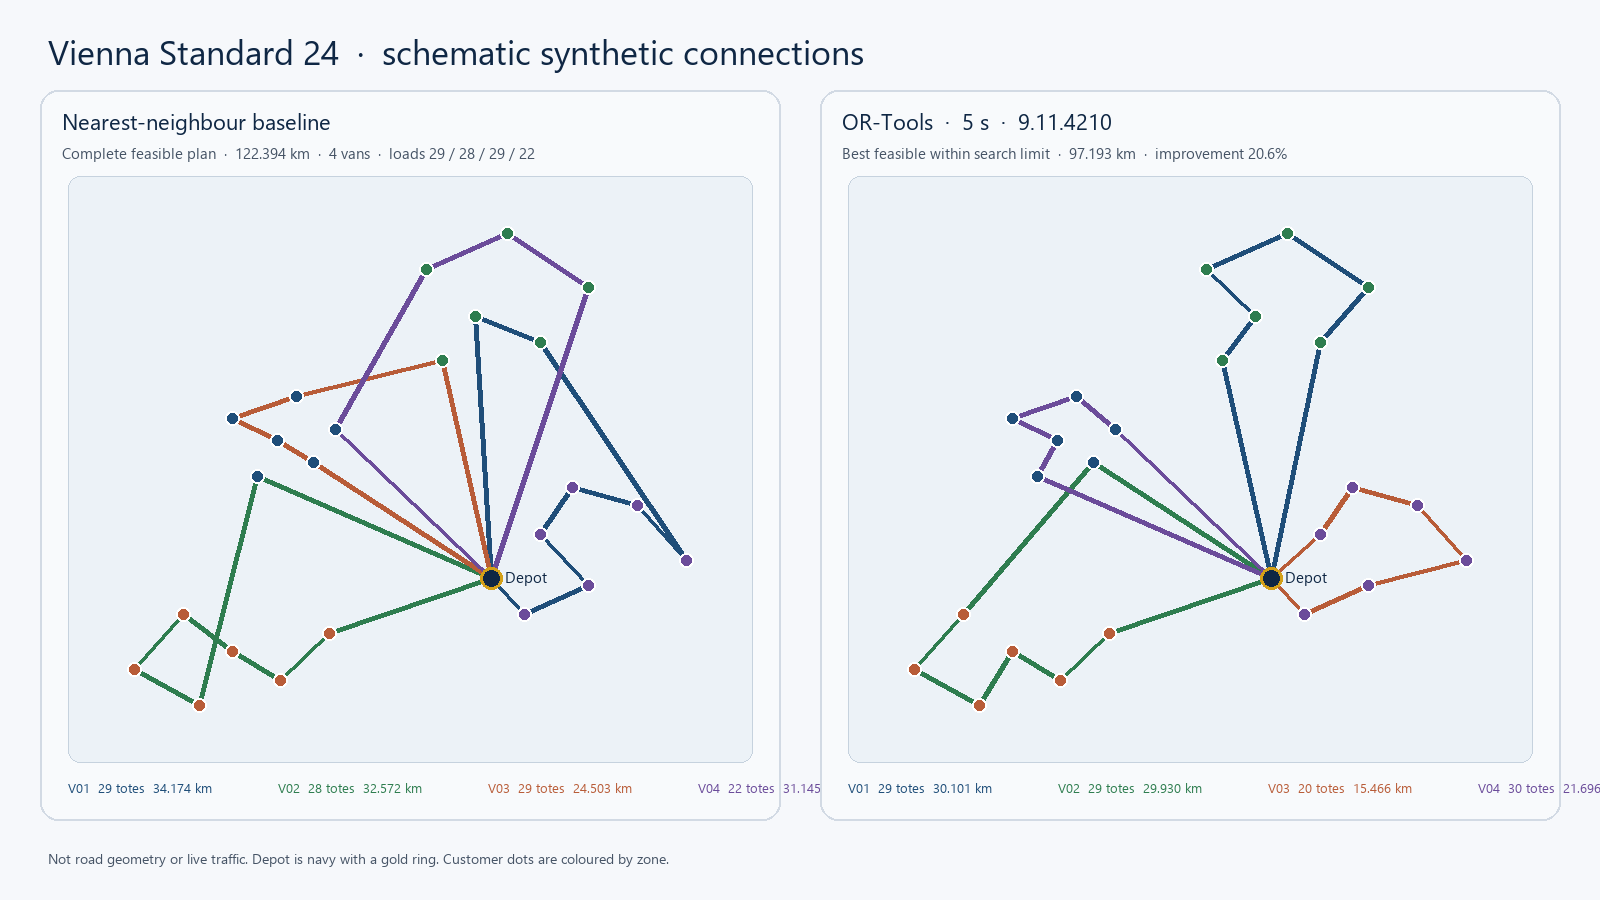
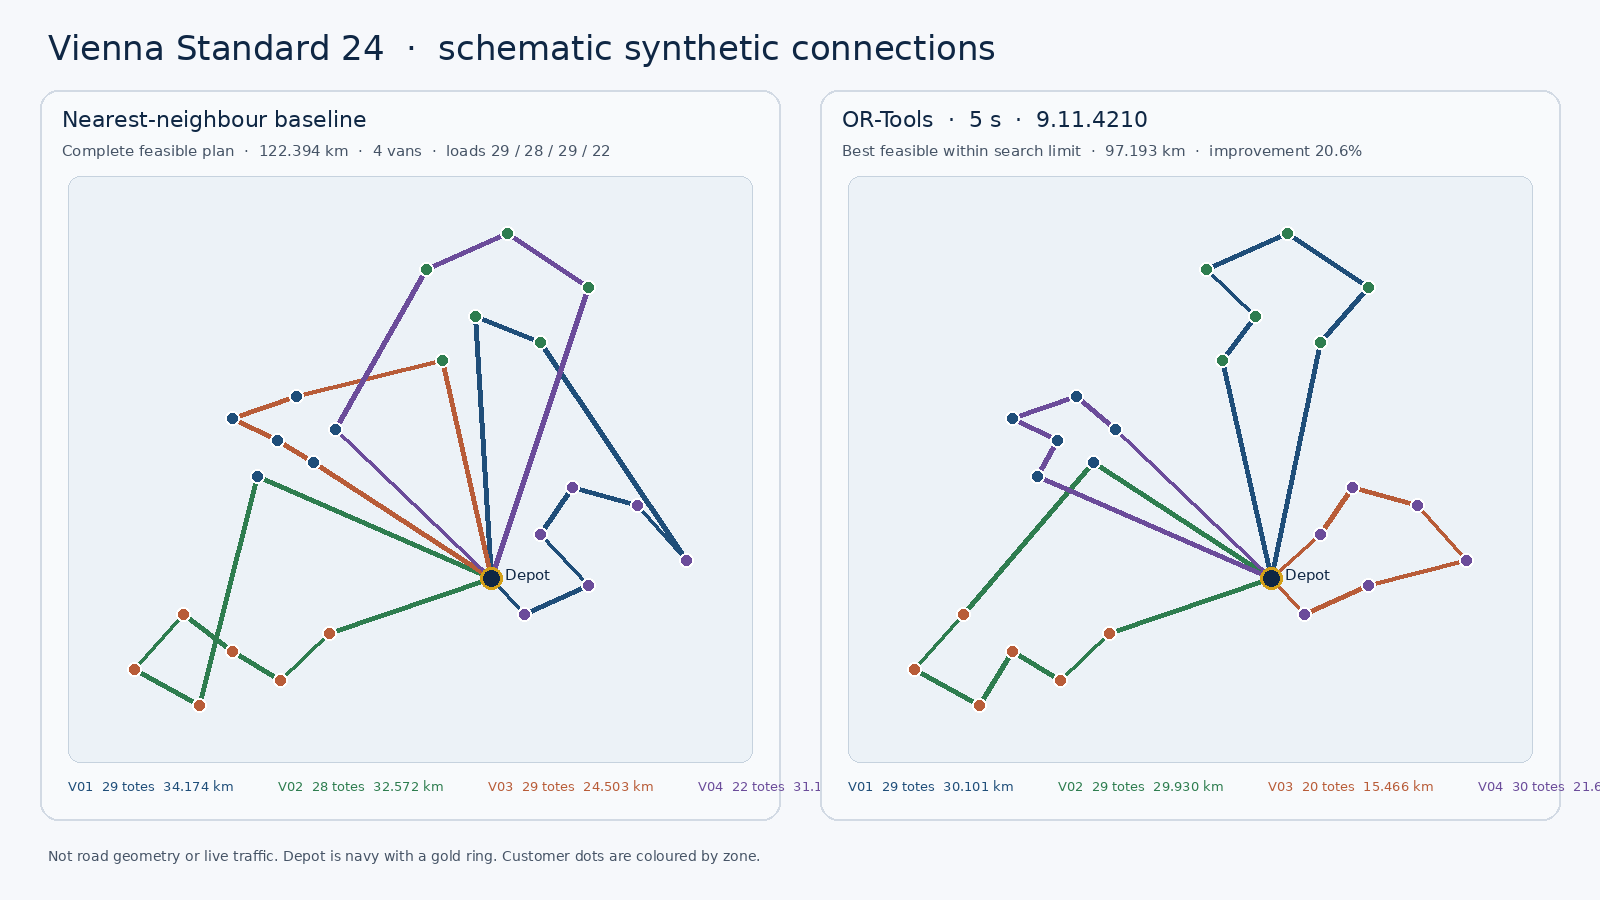
Fix README live demo, setup paths, and screenshot figures
Replace the Streamlit placeholder with the live app URL, document
POSIX and Compose setup alongside Windows, correct CARTO Positron
and solver_time_limit_seconds, and regenerate the portfolio PNGs.

diff --git a/scripts/generate_portfolio_figures.py b/scripts/generate_portfolio_figures.py
@@ -2,7 +2,7 @@
 
 Run from the project root:
 
-    .\\.venv\\Scripts\\python.exe scripts\\generate_portfolio_figures.py
+    python scripts/generate_portfolio_figures.py
 
 Figures are synthetic schematic connections, not road geometry.
 """

diff --git a/README.md b/README.md
@@ -10,16 +10,14 @@ Inspectable static morning dispatch: assign every unsplit tote order to one homo
 
 ## Live demo
 
-Public deployment is in preparation. The final live URL will be added after successful deployment.
-
-The intended free demo is Streamlit Community Cloud for the UI and a Render FastAPI service for planning. Setup is in [`docs/deployment.md`](docs/deployment.md).
+The planner is live at **[https://lastmilelab.streamlit.app/](https://lastmilelab.streamlit.app/)**. Streamlit Community Cloud serves the UI; a Render FastAPI service runs planning. Hosting notes: [`docs/deployment.md`](docs/deployment.md).
 
 | Surface | URL |
 |---|---|
-| Streamlit planner | `_paste HTTPS UI URL after deploy_` |
+| Streamlit planner | https://lastmilelab.streamlit.app/ |
 | GitHub (source) | https://github.com/syeddanishali17/LastMileLab2 |
 
-While developing with two local processes on this machine:
+Local two-process development:
 
 | Surface | Local URL |
 |---|---|
@@ -27,13 +25,19 @@ While developing with two local processes on this machine:
 | API health | http://127.0.0.1:8000/health |
 | OpenAPI `/docs` | http://127.0.0.1:8000/docs |
 
-Docker Compose publishes only Streamlit (`http://localhost:8501` by default). API health from Compose: `docker compose exec backend` as in [`docs/deployment.md`](docs/deployment.md).
+Docker Compose publishes only Streamlit (`http://localhost:8501` by default). Check API health from the backend container:
+
+```bash
+docker compose exec backend python -c "import urllib.request; print(urllib.request.urlopen('http://127.0.0.1:8000/health').read().decode())"
+```
+
+Expected body includes `"status":"ok"`. See [`docs/deployment.md`](docs/deployment.md).
 
 ### Application journey
 
-**Overview → Scenarios → Plan.** Overview explains the delivery problem and distinguishes its published Vienna example from a live run. Scenarios offers exactly three presets: Standard 24, Tight Capacity 24 and Wide Geography 24, plus a custom tote-demand editor with live capacity checks. **Run comparison** executes the nearest-neighbour baseline and OR-Tools search, then opens Plan with both maps, API result metrics, route tables and JSON/CSV ZIP downloads.
+**Overview → Scenarios → Plan.** Overview explains the delivery problem and distinguishes the published Vienna example from a live run. Scenarios offers three presets — Standard 24, Tight Capacity 24, and Wide Geography 24 — plus a custom tote-demand editor with live capacity checks. **Run comparison** executes the nearest-neighbour baseline and OR-Tools search, then opens **Plan** (heading: **Route comparison**) with both maps, API result metrics, route tables, and JSON/CSV ZIP downloads.
 
-Methodology and Model validation are secondary pages. The six-customer teaching example remains in the documentation and regression tests, outside the normal application journey. The sidebar starts collapsed and contains the single navigation and English/Deutsch control. The current page is also named above its heading. The UI still starts with `streamlit run frontend/Home.py`. [UX research and file map](docs/ux_rewrite.md).
+**Methodology** and **Solution verification** are secondary pages. The six-customer teaching example stays in the documentation and regression tests, outside the normal application journey. The sidebar uses Streamlit's default auto state and holds navigation plus the English/Deutsch control. Start the UI with `streamlit run frontend/Home.py`. [UX research and file map](docs/ux_rewrite.md).
 
 ## Contents
 
@@ -47,7 +51,7 @@ Methodology and Model validation are secondary pages. The six-customer teaching 
 8. [Mathematical formulation](#mathematical-formulation)
 9. [Methodology and synthetic data](#methodology-and-synthetic-data)
 10. [Technology stack](#technology-stack)
-11. [Local setup (Windows PowerShell)](#local-setup-windows-powershell)
+11. [Local setup](#local-setup)
 12. [Tests](#tests)
 13. [API](#api)
 14. [Limitations](#limitations)
@@ -175,7 +179,7 @@ Walkthrough: [`docs/learning_6_sequential_nn.md`](docs/learning_6_sequential_nn.
 
 ![Nearest-neighbour baseline schematic for Vienna Standard 24.](docs/screenshots/vienna_baseline_schematic.png)
 
-*Dispatch-style schematic of the complete baseline. Same numbers as the demo table. Not OSM tiles; the live UI draws these connections on OpenStreetMap and captions them as synthetic.*
+*Dispatch-style schematic of the complete baseline. Same numbers as the demo table. Not map tiles; the live UI draws these connections on CARTO Positron and captions them as synthetic.*
 
 ![OR-Tools 5-second feasible plan schematic for Vienna Standard 24.](docs/screenshots/vienna_optimised_schematic.png)
 
@@ -185,13 +189,13 @@ Walkthrough: [`docs/learning_6_sequential_nn.md`](docs/learning_6_sequential_nn.
 
 *Streamlit never solves. FastAPI never owns KPI formulae. Pytest calls `backend/app/core` directly.*
 
-The live Streamlit pages (Overview, Scenarios, Plan, plus optional Methodology and Model validation) are the interactive screenshots. Capture those from the running UI after deploy if a recruiter walkthrough needs browser chrome.
+The live Streamlit pages (Overview, Scenarios, Plan, plus optional Methodology and Solution verification) are the interactive screenshots. Capture those from [the running demo](https://lastmilelab.streamlit.app/) if a walkthrough needs browser chrome.
 
-Regenerate schematic figures:
+Regenerate schematic figures from the cloned repository root (`pillow` is in `backend/requirements-dev.txt`):
 
-```powershell
-cd c:\Users\danis\Desktop\LastMileLab2
-.\.venv\Scripts\python.exe scripts\generate_portfolio_figures.py
+```bash
+python -m pip install -r backend/requirements.txt -r backend/requirements-dev.txt
+python scripts/generate_portfolio_figures.py
 ```
 
 ## Architecture
@@ -205,7 +209,7 @@ Browser → Streamlit (published :8501) → FastAPI /api/v1 (internal :8000)
                               └─ DuckDB run history + JSON/CSV export
 ```
 
-OR-Tools does **not** solve the documented three-index MILP. The Model Inspector reconstructs `x_ijk`, `y_ik`, and `u_k` from returned stop sequences. Displayed load is the cumulative tote sum, not MTZ `w_ik`.
+OR-Tools does **not** solve the documented three-index MILP. Solution verification reconstructs `x_ijk`, `y_ik`, and `u_k` from returned stop sequences. Displayed load is the cumulative tote sum, not MTZ `w_ik`.
 
 Detail: [`docs/architecture.md`](docs/architecture.md).
 
@@ -240,52 +244,109 @@ Field catalogue: [`docs/data_dictionary.md`](docs/data_dictionary.md).
 | Language | Python 3.12 |
 | API | FastAPI 0.115.8, Uvicorn 0.34.0, Pydantic 2.10.6 |
 | Solver | `ortools==9.11.4210` |
-| UI | Streamlit 1.44.1, Plotly 5.24.1, OpenStreetMap tiles |
+| UI | Streamlit 1.44.1, Plotly 5.24.1, CARTO Positron GL (token-free) |
 | Storage | DuckDB 1.2.2 |
 | Tests / lint | pytest 8.3.5, ruff 0.11.2 |
-| CI | GitHub Actions, Python 3.12 |
-| Runtime | Docker Compose (API + UI together) |
+| CI | GitHub Actions on `ubuntu-latest`: pytest, ruff, and `compose-config` |
+| Runtime | Docker Compose (API + UI together), or two local processes |
 
-No Mapbox token. No secrets in `.env.example`.
+No Mapbox token. [`.env.example`](.env.example) has no secrets; it is the Compose template.
 
-## Local setup (Windows PowerShell)
+## Local setup
+
+Python 3.12. Clone the repository, then work from that directory. Do not install packages globally.
+
+```bash
+git clone https://github.com/syeddanishali17/LastMileLab2.git
+cd LastMileLab2
+```
+
+### Docker Compose
+
+The straightforward path if Docker Engine 24+ and Compose V2 are available:
+
+```bash
+cp .env.example .env
+docker compose up --build
+```
+
+Open http://localhost:8501. FastAPI stays on the Compose network; it is not published on `localhost:8000`. Health check:
+
+```bash
+docker compose exec backend python -c "import urllib.request; print(urllib.request.urlopen('http://127.0.0.1:8000/health').read().decode())"
+```
+
+Compose environment and persistence: [`docs/deployment.md`](docs/deployment.md).
+
+### Two-process (macOS / Linux)
+
+```bash
+python3.12 -m venv .venv
+source .venv/bin/activate
+python -m pip install --upgrade pip
+python -m pip install -r backend/requirements.txt -r backend/requirements-dev.txt -r frontend/requirements.txt
+```
+
+Terminal 1 — API:
+
+```bash
+python -m uvicorn app.main:app --app-dir backend --reload --host 127.0.0.1 --port 8000
+```
+
+Terminal 2 — UI:
+
+```bash
+python -m streamlit run frontend/Home.py
+```
+
+Leave `BACKEND_URL` unset so Streamlit uses `http://127.0.0.1:8000`. Do not copy `.env.example` for this workflow; that file is the Compose template (`BACKEND_URL=http://backend:8000`).
+
+### Windows PowerShell
 
 ```powershell
-cd c:\Users\danis\Desktop\LastMileLab2
 py -3.12 -m venv .venv
 .\.venv\Scripts\python.exe -m pip install --upgrade pip
 .\.venv\Scripts\python.exe -m pip install -r backend\requirements.txt -r backend\requirements-dev.txt -r frontend\requirements.txt
 ```
 
-Terminal 1 — API:
-
 ```powershell
 .\.venv\Scripts\python.exe -m uvicorn app.main:app --app-dir backend --reload --host 127.0.0.1 --port 8000
 ```
-
-Terminal 2 — UI:
 
 ```powershell
 .\.venv\Scripts\python.exe -m streamlit run frontend\Home.py
 ```
 
-More detail: [`docs/local_setup.md`](docs/local_setup.md). Compose: [`docs/deployment.md`](docs/deployment.md).
+More Windows detail: [`docs/local_setup.md`](docs/local_setup.md).
+
+### Environment variables
+
+There are no secrets. See [`.env.example`](.env.example) and [`docs/deployment.md`](docs/deployment.md).
+
+| Variable | Role |
+|---|---|
+| `BACKEND_URL` | Streamlit → FastAPI origin. Unset locally (UI defaults to `http://127.0.0.1:8000`). Compose: `http://backend:8000`. Community Cloud: set in App Secrets to the Render HTTPS origin. |
+| `DUCKDB_PATH` | DuckDB file. Unset locally (`data/runs/lastmile.duckdb`). Compose: `/app/data/runs/lastmile.duckdb`. |
+| `LOG_LEVEL` | Backend log level (`INFO` default). |
+| `FRONTEND_PORT` | Compose host port mapped to Streamlit (`8501` default). |
+| `CORS_ORIGINS` | FastAPI CORS allow-list (`http://localhost:8501` default). Do not set `*`. Unused for Compose (server-side httpx). |
 
 ## Tests
 
-```powershell
-cd c:\Users\danis\Desktop\LastMileLab2
-.\.venv\Scripts\python.exe -m pytest -q
-.\.venv\Scripts\python.exe -m ruff check backend tests frontend
+```bash
+python -m pytest -q
+python -m ruff check backend tests frontend
 ```
 
-CI runs the same commands on Python 3.12 (`.github/workflows/ci.yml`). Tests call core planning directly; they do not require a running Uvicorn process.
+Windows: `.\.venv\Scripts\python.exe -m pytest -q` and the same interpreter for ruff.
+
+CI (`.github/workflows/ci.yml`) runs ruff and pytest on Python 3.12, plus a `compose-config` job that validates `docker compose config`. Tests call core planning directly; they do not require a running Uvicorn process.
 
 Vienna optimiser kilometres are intentionally **not** frozen. LEARNING_6 optimum **is** frozen at 31000 m.
 
 ## API
 
-Interactive docs when the API is running locally: [http://127.0.0.1:8000/docs](http://127.0.0.1:8000/docs). Compose keeps FastAPI internal. The free demo uses a public Render service; see [`docs/deployment.md`](docs/deployment.md).
+Interactive docs when the API is running locally: [http://127.0.0.1:8000/docs](http://127.0.0.1:8000/docs). Compose keeps FastAPI internal. The live demo uses a public Render service; see [`docs/deployment.md`](docs/deployment.md).
 
 | Method | Path | Role |
 |---|---|---|
@@ -295,11 +356,13 @@ Interactive docs when the API is running locally: [http://127.0.0.1:8000/docs](h
 | `POST` | `/api/v1/scenarios/generate` | Synthetic geographic scenario |
 | `POST` | `/api/v1/scenarios/validate` | Pre-checks only |
 | `POST` | `/api/v1/plans/baseline` | Sequential nearest neighbour |
-| `POST` | `/api/v1/plans/optimise` | OR-Tools (`time_limit_seconds` 1, 5, or 10) |
+| `POST` | `/api/v1/plans/optimise` | OR-Tools (`solver_time_limit_seconds` 1, 5, or 10) |
 | `GET` | `/api/v1/runs/{run_id}` | Stored plan and KPIs |
 | `GET` | `/api/v1/runs/{run_id}/routes` | Sequences and stops |
 | `GET` | `/api/v1/runs/{run_id}/checks` | Reconstructed constraint checks |
 | `GET` | `/api/v1/runs/{run_id}/export` | JSON or CSV zip |
+
+The Python core helper is `plan_optimise(..., time_limit_seconds=5)`; FastAPI maps that onto the request field `solver_time_limit_seconds`.
 
 Streamlit is a client of this API. It does not re-solve the CVRP.
 
@@ -323,10 +386,10 @@ Full write-up and versioned extensions: [`docs/limitations.md`](docs/limitations
 | V2 | Time windows, service duration, driver shift length |
 | V3 | Optional customers, split-delivery experiment, multi-trip experiment |
 
-Do not add these until the CVRP MVP is publicly demonstrable.
+These are not current capabilities.
 
 ## Licence
 
 [MIT](LICENSE). Copyright (c) 2026 SyedDanishAli.
 
-Source: [github.com/syeddanishali17/LastMileLab2](https://github.com/syeddanishali17/LastMileLab2). After the host is live, paste the HTTPS Streamlit URL into the live-demo table at the top of this README.
+Source: [github.com/syeddanishali17/LastMileLab2](https://github.com/syeddanishali17/LastMileLab2). Live demo: [lastmilelab.streamlit.app](https://lastmilelab.streamlit.app/).

diff --git a/docs/local_setup.md b/docs/local_setup.md
@@ -1,11 +1,12 @@
 # Local setup (Windows PowerShell)
 
-Use Python 3.12 and the project virtual environment at `.venv`. Do not install packages globally.
+Use Python 3.12 and the project virtual environment at `.venv`. Do not install packages globally. macOS/Linux and Docker Compose commands are in the [README](../README.md) and [`deployment.md`](deployment.md).
 
 ## Create the virtual environment
 
+From the cloned repository root:
+
 ```powershell
-cd c:\Users\danis\Desktop\LastMileLab2
 py -3.12 -m venv .venv
 .\.venv\Scripts\python.exe -m pip install --upgrade pip
 .\.venv\Scripts\python.exe -m pip install -r backend\requirements.txt -r backend\requirements-dev.txt -r frontend\requirements.txt
@@ -33,14 +34,12 @@ Do not copy `.env.example` for this two-process workflow. That file is the Compo
 Terminal 1 — API at `http://127.0.0.1:8000`:
 
 ```powershell
-cd c:\Users\danis\Desktop\LastMileLab2
 .\.venv\Scripts\python.exe -m uvicorn app.main:app --app-dir backend --reload --host 127.0.0.1 --port 8000
 ```
 
 Terminal 2 — UI at `http://localhost:8501`:
 
 ```powershell
-cd c:\Users\danis\Desktop\LastMileLab2
 .\.venv\Scripts\python.exe -m streamlit run frontend\Home.py
 ```
 
@@ -54,6 +53,6 @@ These local API URLs apply to this two-process setup only. Docker Compose does n
 
 In the UI, follow **Overview → Scenarios → Vienna Standard 24 → Run comparison**. The default five-second search opens **Plan** automatically with both route maps and visible JSON/CSV ZIP exports. The Overview proof card is the published snapshot; the Plan page shows the current API run.
 
-For a custom delivery wave, choose **Custom scenario**, edit tote demand, then **Generate scenario**. Generation is disabled if an order exceeds a van's capacity or total demand exceeds fleet capacity. A passed input check is not a guarantee that unsplit orders can be packed. Generated locations use the existing Vienna zones. **Methodology** and **Model validation** are optional sidebar links.
+For a custom delivery wave, choose **Custom scenario**, edit tote demand, then **Generate scenario**. Generation is disabled if an order exceeds a van's capacity or total demand exceeds fleet capacity. A passed input check is not a guarantee that unsplit orders can be packed. Generated locations use the existing Vienna zones. **Methodology** and **Solution verification** are optional sidebar links.
 
 Free Streamlit Community Cloud + Render deployment, and optional Compose, are documented in [`deployment.md`](deployment.md).

diff --git a/docs/architecture.md b/docs/architecture.md
@@ -29,7 +29,7 @@ DuckDBRepository  (data/runs/lastmile.duckdb)
 ```mermaid
 flowchart TD
   user[Recruiter or planner]
-  ui[Streamlit pages<br/>Overview, Scenarios, Plan,<br/>Methodology, Model validation]
+  ui[Streamlit pages<br/>Overview, Scenarios, Plan,<br/>Methodology, Solution verification]
   api[FastAPI<br/>GET /health<br/>/api/v1/scenarios<br/>/api/v1/plans<br/>/api/v1/runs]
   core[Core planning package]
   val[Validation and pre-checks]
@@ -73,11 +73,11 @@ Phase 6 used an in-memory repository. Phase 8 swapped in DuckDB behind the same 
 | Scenarios | Three curated presets or guided custom demand; one run-comparison action |
 | Plan | Baseline and OR-Tools KPIs, both schematic maps, van tables, JSON/CSV export |
 | Methodology | Short assumptions and solver notes (secondary) |
-| Model validation | Reconstruct `x_ijk`, `y_ik`, and `u_k` from returned stops (secondary) |
+| Solution verification | Reconstruct `x_ijk`, `y_ik`, and `u_k` from returned stops (secondary) |
 
 `Home.py` registers those pages with `st.navigation`. LEARNING_6 remains a fixture and test suite; it is not in the primary UI. Session state keeps `scenario_id`, `baseline_run_id`, `optimised_run_id`, and `_plan_bundle`. Changing scenario drops stale run IDs so plans from different datasets cannot be compared.
 
-OpenStreetMap tiles are schematic. Route lines are synthetic connections, not road geometry.
+CARTO Positron tiles are a geographic backdrop. Route lines are synthetic connections, not road geometry.
 
 ## Documented MILP versus OR-Tools
 

diff --git a/docs/limitations.md b/docs/limitations.md
@@ -2,7 +2,7 @@
 
 ## Current limitations
 
-- **Synthetic geography.** Distances are Haversine metres with a detour factor, rounded to integer metres. OpenStreetMap polylines are schematic connections, not driving directions or live traffic.
+- **Synthetic geography.** Distances are Haversine metres with a detour factor, rounded to integer metres. CARTO Positron polylines are schematic connections, not driving directions or live traffic.
 - **One frozen morning wave.** The planner does not re-optimise during the day, accept late orders, or model service times.
 - **Homogeneous fleet.** Every van has the same tote capacity. There is no dispatch fixed cost, workload-balance objective, or vehicle-specific constraint.
 - **Unsplit mandatory service.** Customers cannot be split, dropped, or made optional. Time windows are out of scope.

diff --git a/docs/methodology.md b/docs/methodology.md
@@ -45,7 +45,7 @@ For every geographic pair:
 4. Fill one triangle of the matrix, then mirror it so the matrix is symmetric.
 5. Set the diagonal to 0.
 
-The detour factor is a synthetic urban allowance. It is not live traffic and not a road-network path. Route lines on OpenStreetMap are schematic connections based on this matrix.
+The detour factor is a synthetic urban allowance. It is not live traffic and not a road-network path. Route lines on the CARTO Positron map are schematic connections based on this matrix.
 
 Node order is depot first, then customer IDs sorted lexicographically. Matrix lookup is the only distance source for baseline construction, OR-Tools callbacks, KPI reconciliation, and the inspector.
 

diff --git a/docs/deployment.md b/docs/deployment.md
@@ -68,13 +68,14 @@ This path keeps FastAPI internal and retains run history on volume `duckdb_data`
 
 ### Local Compose
 
-From the project root, with Docker Engine 24+ and Compose V2:
+From the cloned repository root, with Docker Engine 24+ and Compose V2:
 
-```powershell
-cd c:\Users\danis\Desktop\LastMileLab2
-copy .env.example .env
+```bash
+cp .env.example .env
 docker compose up --build
 ```
+
+On Windows PowerShell, `copy .env.example .env` is the equivalent of `cp`.
 
 Open the UI at `http://localhost:8501` (or `http://localhost:$FRONTEND_PORT`). Follow **Overview → Scenarios → Vienna Standard → Run comparison → Plan**.
 

diff --git a/docs/ux_audit.md b/docs/ux_audit.md
@@ -84,7 +84,7 @@ design decisions were checked against the running application.
 Desktop uses side-by-side baseline and OR-Tools maps with the same initial camera.
 Below the 760 px CSS breakpoint a native plan selector and one visible map replace
 the pair. The compact external legend avoids a tall Plotly legend strip.
-Existing OpenStreetMap tiles remain; no new mapping service or token was added.
+Geographic maps use token-free CARTO Positron tiles; no Mapbox token was added.
 Connections are schematic, estimated-distance planning, not roads or navigation.
 
 ## Verification record
